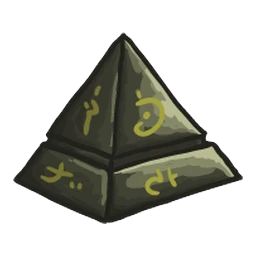
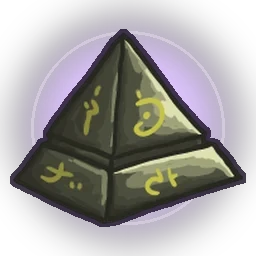
Mystic Runes: backlit symbols for contrast
Claude-Session: https://claude.ai/code/session_01LcC21fng844zb5K8BRYuAt

diff --git a/LuckyVault/public/sw.js b/LuckyVault/public/sw.js
@@ -1,5 +1,5 @@
 // Offline cache for the game client (API calls always go to the network).
-const V = 'lv-v202';
+const V = 'lv-v203';
 const FILES = ['./', './index.html', './config.js', './manifest.webmanifest', './js/slots-engine.js', './js/catalog.js', './js/tables-engine.js', './js/tables-ui.js', './js/social.js', './js/fx.js', './js/feat-ui.js', './js/hov-ui.js', './js/roadmap.js', './js/vegas.js', './js/rules.js', './js/onboard.js', './js/friends-ui.js', './js/rg.js', './js/support-ui.js', './js/replay.js', './js/fx2.js', './js/i18n.js', './js/iap.js', './assets/fonts/Anton.woff2', './assets/fonts/Cinzel.woff2', './icons/icon-192.png', './icons/icon-512.png'];
 self.addEventListener('install', e => { e.waitUntil(caches.open(V).then(c => c.addAll(FILES)).then(() => self.skipWaiting())); });
 self.addEventListener('activate', e => { e.waitUntil(caches.keys().then(ks => Promise.all(ks.filter(k => k !== V).map(k => caches.delete(k)))).then(() => self.clients.claim())); });

diff --git a/LuckyVault/tools/backlight.py b/LuckyVault/tools/backlight.py
@@ -1,0 +1,17 @@
+# Put a soft glowing rune-disc behind thin/dark symbols so they read on dark reels.
+# Usage: python3 backlight.py slug r,g,b [src_dir]
+import sys
+from PIL import Image, ImageDraw, ImageFilter, ImageEnhance
+A = '/home/claude/slots/assets/games/'
+slug = sys.argv[1]; col = tuple(int(x) for x in sys.argv[2].split(',')); src = sys.argv[3] if len(sys.argv) > 3 else A + slug
+for k in ['h1', 'h2', 'h3', 'h4', 'l1', 'l2', 'l3', 'l4', 'l5']:
+    im = Image.open(f'{src}/{k}.webp').convert('RGBA'); S = im.size[0]
+    a = im.split()[3]; rgb = ImageEnhance.Brightness(im.convert('RGB')).enhance(1.2); im = rgb.convert('RGBA'); im.putalpha(a)
+    bg = Image.new('RGBA', im.size, (0, 0, 0, 0)); d = ImageDraw.Draw(bg); m = S * .1
+    d.ellipse((m, m, S - m, S - m), fill=col + (215,)); bg = bg.filter(ImageFilter.GaussianBlur(S * .08))
+    ring = Image.new('RGBA', im.size, (0, 0, 0, 0)); ImageDraw.Draw(ring).ellipse((m + 6, m + 6, S - m - 6, S - m - 6), outline=(255, 255, 255, 70), width=3)
+    # thin dark outline around the symbol itself
+    ol = Image.new('RGBA', im.size, (20, 10, 30, 0)); ol.putalpha(a.filter(ImageFilter.MaxFilter(7)).point(lambda v: 200 if v > 40 else 0))
+    out = Image.alpha_composite(Image.alpha_composite(Image.alpha_composite(bg, ring), ol), im)
+    out.save(f'{A}{slug}/{k}.webp', 'WEBP', quality=90)
+print('backlit', slug)

diff --git a/LuckyVault/CHANGELOG.md b/LuckyVault/CHANGELOG.md
@@ -758,3 +758,7 @@ Frame-by-frame phone QA (idle, bet, deal x8, result, squeeze) in 中文 and Engl
 ## Round 108 (23:41) 精修：闪电百搭（宙斯闪电、风暴追击、雷霆野牛、电光丛林）
 - 中文模式下飘字「LIGHTNING WILDS!」没翻译，而且太长溢出屏幕重叠成两行 → 改为「闪电百搭！」
 - 所有特色玩法的飘字（巨型符号、神秘符号、移动百搭等）在窄屏上自动缩小，不再超出屏幕
+
+## Round 109 (23:47) 精修：神秘符文（神秘符号玩法）+ 巨型符号检查
+- 神秘符文的符号是细线项链，在深紫色转轴上几乎看不见 → 每个符号背后加一圈淡紫色光盘和深色描边（新工具 tools/backlight.py）
+- 神秘「?」翻开、泰坦巨像 3×3 巨型符号逐帧检查正常
